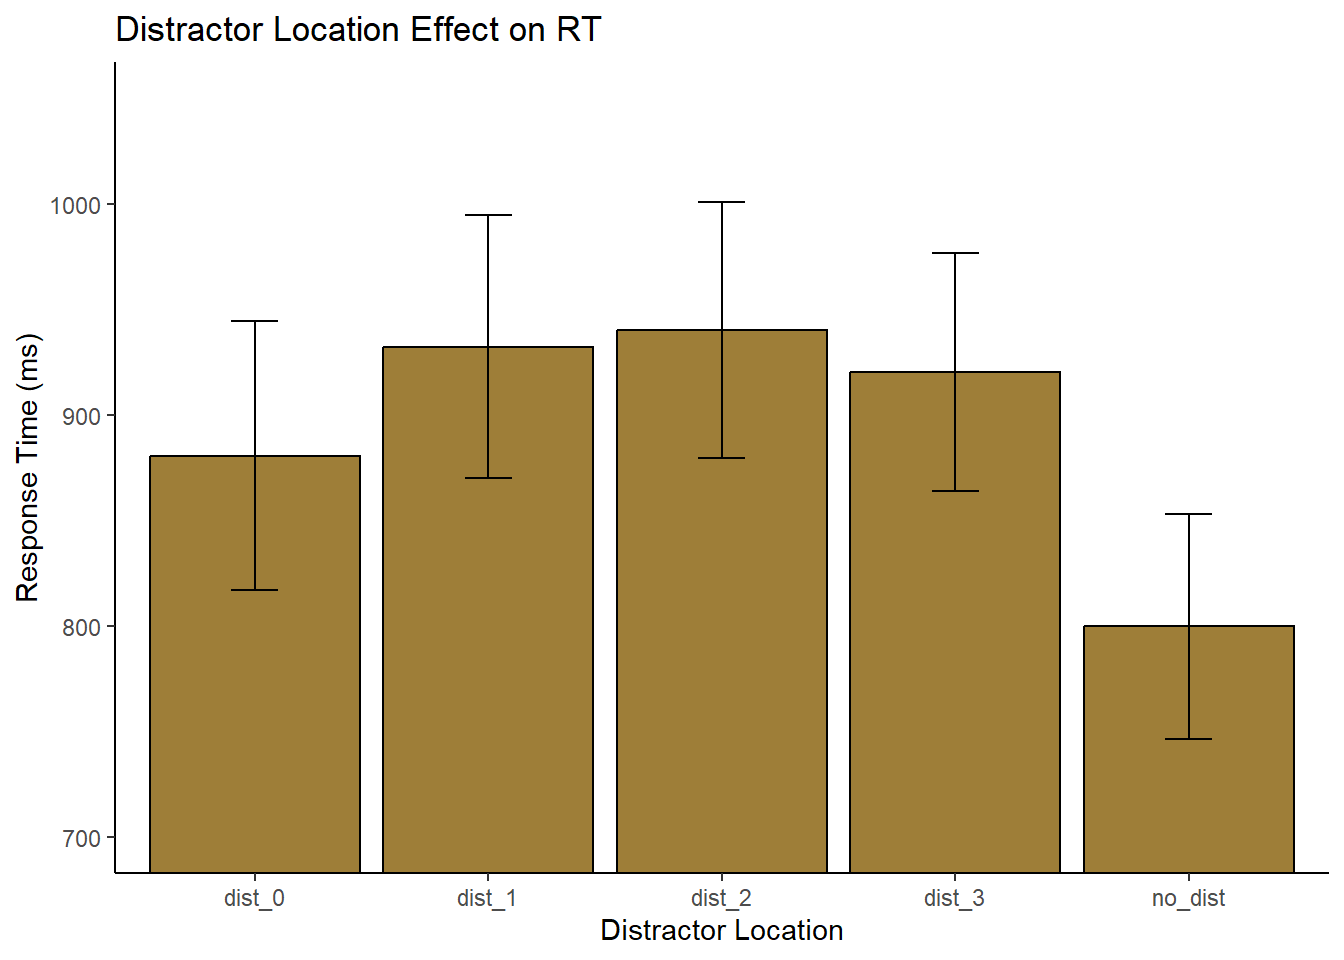
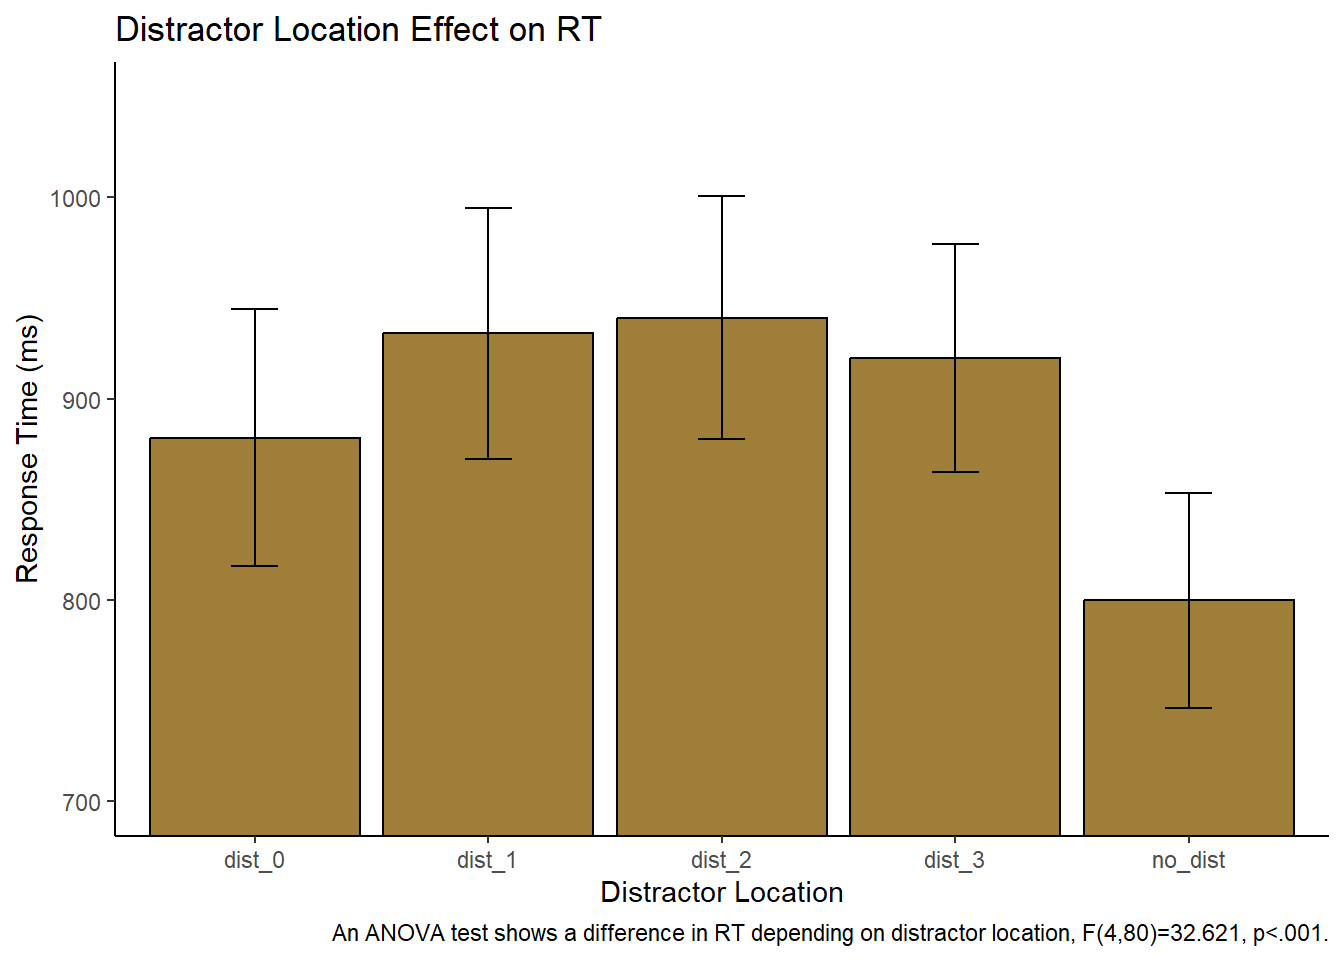
Completed portfolio 1

diff --git a/docs/p01.html b/docs/p01.html
@@ -16,7 +16,7 @@
 <script src="site_libs/header-attrs-2.19/header-attrs.js"></script>
 <script src="site_libs/jquery-3.6.0/jquery-3.6.0.min.js"></script>
 <meta name="viewport" content="width=device-width, initial-scale=1" />
-<link href="site_libs/bootstrap-3.3.5/css/bootstrap.min.css" rel="stylesheet" />
+<link href="site_libs/bootstrap-3.3.5/css/cerulean.min.css" rel="stylesheet" />
 <script src="site_libs/bootstrap-3.3.5/js/bootstrap.min.js"></script>
 <script src="site_libs/bootstrap-3.3.5/shim/html5shiv.min.js"></script>
 <script src="site_libs/bootstrap-3.3.5/shim/respond.min.js"></script>
@@ -309,14 +309,17 @@ distractor present trials, the distractor appears in the same location
 in the array with an equal number of trials in the other 5 locations.
 This study is testing whether adults can learn to suppress their
 attention to the high-probabilty location of the distractor.</p>
+<p>The goal of this portfolio piece was to examine the distractor
+location effect on response times with regard to the statistical
+regularity introduced.</p>
 <pre class="r"><code>pilot &lt;- read_csv(&quot;p01/data/pilot_final.csv&quot;, show_col_types = FALSE)</code></pre>
 <pre><code>## New names:
 ## • `` -&gt; `...1`</code></pre>
 <div id="distractor-location-effects-on-response-times"
 class="section level3">
 <h3>Distractor Location Effects on Response Times</h3>
-<p>Changed the value of column relative_hp_dist. Tried mutate and
-transform functions to no avail.</p>
+<p>Changed the value of column relative_hp_dist and changed RT column to
+milliseconds. Tried mutate and transform functions to no avail.</p>
 <pre class="r"><code>pilot$relative_hp_dist[pilot$relative_hp_dist == 10] &lt;- &quot;no_dist&quot;
 pilot$relative_hp_dist[pilot$relative_hp_dist == 0] &lt;- &quot;dist_0&quot;
 pilot$relative_hp_dist[pilot$relative_hp_dist == 1] &lt;- &quot;dist_1&quot;
@@ -325,8 +328,8 @@ pilot$relative_hp_dist[pilot$relative_hp_dist == 3] &lt;- &quot;dist_3&quot;
 
 pilot$RT &lt;- pilot$RT *1000</code></pre>
 <p>Create new data frame with the mean response times grouped by
-distractor location relative to the high-probability location and change
-RT column to milliseconds.</p>
+distractor location relative to the high-probability location and add
+columns for standard error.</p>
 <pre class="r"><code>dist_means &lt;- pilot %&gt;%
   group_by(relative_hp_dist) %&gt;%
   filter(acc==100) %&gt;%
@@ -347,18 +350,20 @@ dist_means</code></pre>
 ## 4 dist_3               920.  259.    21  56.5        977.        864.
 ## 5 no_dist              800.  245.    21  53.4        853.        746.</code></pre>
 <p>This figure displays the mean response times depending on the
-location of the distractor relative to the high probability location.
-Choose those particular colors based on Wake Forest’s color scheme.</p>
+location of the distractor relative to the high probability location. I
+chose those particular colors based on Wake Forest’s color scheme.</p>
 <pre class="r"><code>ggplot(data = dist_means, aes(x = relative_hp_dist, y = mean_rts)) +
   geom_bar(stat = &quot;identity&quot;, fill=&quot;#9E7E38&quot;, color=&#39;#000000&#39;) +
   geom_errorbar(aes(ymin=lower_limit, ymax=upper_limit), width=0.2)+
   coord_cartesian(ylim = c(700,1050))+
   theme_classic()+
   labs(x = &quot;Distractor Location&quot;, y = &quot;Response Time (ms)&quot;)+
-  labs(title = &quot;Distractor Location Effect on RT&quot;)</code></pre>
-<p><img src="p01_files/figure-html/-%20graph%201%20-%20distractor%20location%20effect%20on%20rt-1.png" width="672" />
-Create a new data frame with the average RT for each relative distractor
-location per participant, so we can do a repeated measures ANOVA.</p>
+  labs(title = &quot;Distractor Location Effect on RT&quot;)+
+  labs(caption = &quot;An ANOVA test shows a difference in RT depending on distractor location, F(4,80)=32.621, p&lt;.001.&quot;)</code></pre>
+<p><img src="p01_files/figure-html/-%20graph%201%20-%20distractor%20location%20effect%20on%20rt-1.png" width="672" /></p>
+<p>Create a new data frame with the average RT for each relative
+distractor location per participant, so we can do a repeated measures
+ANOVA.</p>
 <pre class="r"><code>space &lt;- pilot %&gt;%
   group_by(ID, relative_hp_dist) %&gt;%
   filter(acc==100) %&gt;%
@@ -421,10 +426,10 @@ get_anova_table(res.aov)</code></pre>
 ## 1 relative_hp_dist   4  80 32.621 4.04e-16     * 0.113</code></pre>
 <p>Test whether the high-prob location and the average across low-prob
 locations were significantly different. Using a paired samples t-test, I
-found that the response times for when the distractor was present in the
-high-probability location compared to the average response time across
-the low-probability locations was significantly different (t(20)=4.24,
-p&lt;.001).</p>
+found that the response times for when the distractor was presented in
+the high-probability location compared to the average response time
+across the low-probability locations was significantly different
+(t(20)=4.24, p&lt;.001).</p>
 <pre class="r"><code>space_anova &lt;- space_anova %&gt;%
   mutate(low_prob = (dist_1+dist_2+dist_3)/3)</code></pre>
 <pre class="r"><code>space_anova %&gt;%
@@ -444,11 +449,12 @@ p&lt;.001).</p>
 <div id="examine-block-by-block-learning-of-distractor-location"
 class="section level3">
 <h3>Examine block-by-block learning of distractor location</h3>
-<p>The goal of this portfolio is to examine individual blocks of trials
+<p>The goal of this section is to examine individual blocks of trials
 for learning. I’ll be taking the difference between response times when
 the distractor is presented in the low probability locations and
 response times when the distractor is presented in the high probability
-location.</p>
+location in each block to see roughly how quickly individuals are
+learning the regularity.</p>
 <pre class="r"><code>block_num &lt;- rep(c(1,2,3,4,5,6,7,8), each=60, times=21)
 pilot &lt;- cbind(pilot, block_num)</code></pre>
 <pre class="r"><code>space_block &lt;- pilot %&gt;%
@@ -468,13 +474,17 @@ space_block &lt;- dcast(space_block,ID+block_num~relative_hp_dist,value.var=&#39
   geom_point()+
   labs(title = &quot;Difference in Response Times&quot;, subtitle = &quot;for distractor presentation at the low-probability locations and high-probability location by block&quot;)+
   theme_classic()+
-  labs(x = &quot;Block Number&quot;, y = &quot;Difference in RT (ms)&quot;)+
-  labs(caption = &quot;Larger differences indicate that &quot;)</code></pre>
+  labs(x = &quot;Block Number&quot;, y = &quot;Difference in RT (ms)&quot;)</code></pre>
 <pre><code>## Warning: Removed 1 rows containing missing values (`geom_point()`).</code></pre>
-<p><img src="p01_files/figure-html/line_plot-1.png" width="672" /> One
-participant did not have a value for block 6 due to them not completing
-any trials of a certain type, accurately, during that block.</p>
-<p>Need to create line plot of the averages.</p>
+<p><img src="p01_files/figure-html/line_plot-1.png" width="672" /></p>
+<p>One participant did not have a value for block 6 due to them not
+completing any trials of a certain type, accurately, during that block.
+Positive differences indicate that participants were faster when the
+distractor was presented in the high probability location compared to
+when it was presented in the low probability locations. The average
+across all participants is plotted below. These results indicate that
+the individuals are learning within the first block where the distractor
+is likely to appear.</p>
 <pre class="r"><code>space2 &lt;- space_block %&gt;%
   group_by(block_num) %&gt;%
   summarize(rts = mean(difference, na.rm = TRUE),
